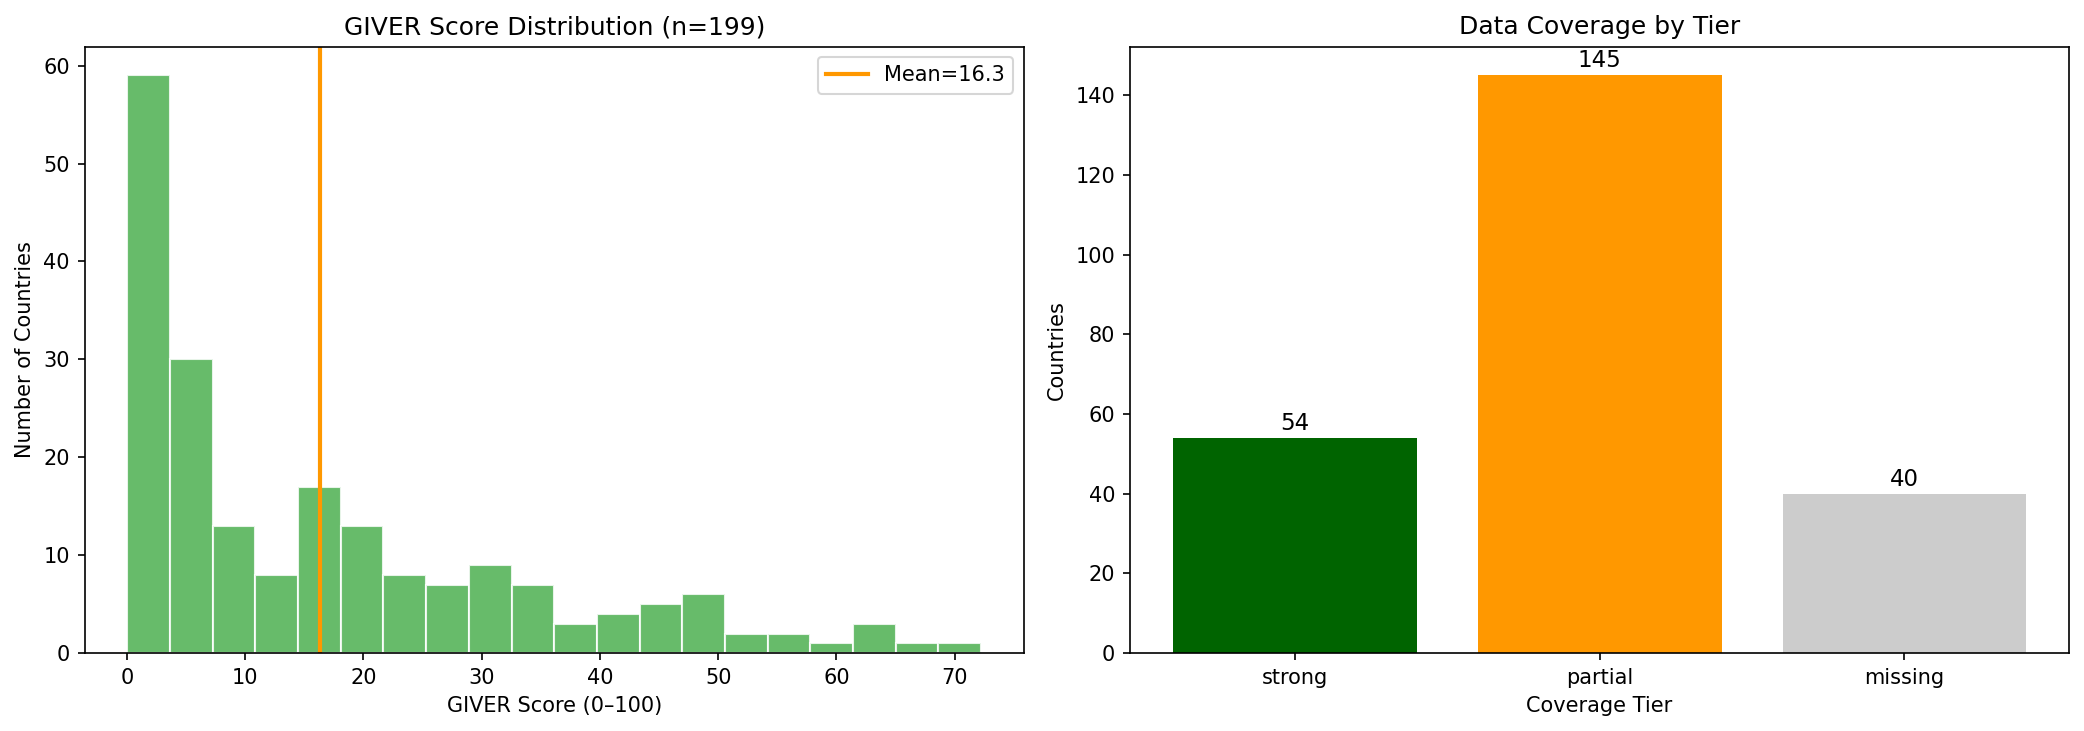
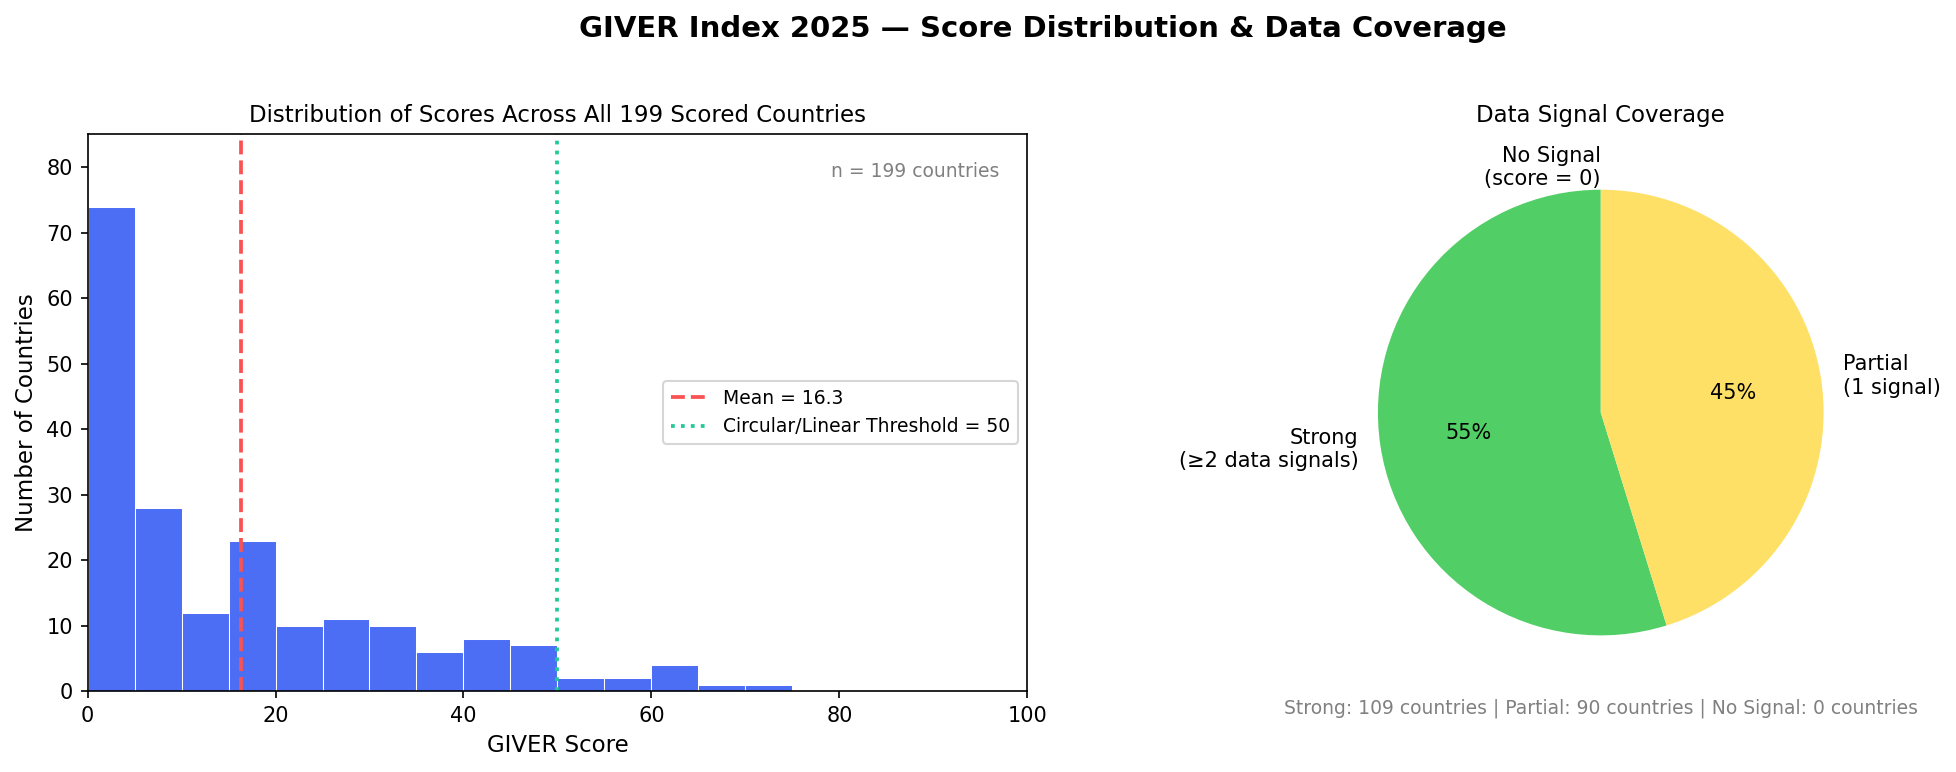
Regenerate all visualizations with clear labels and descriptions

diff --git a/docs/visualizations/generate.py b/docs/visualizations/generate.py
@@ -1,0 +1,335 @@
+#!/usr/bin/env python3
+"""Generate all GIVER Index visualizations for the GitHub Discussion."""
+from __future__ import annotations
+
+import sys
+from pathlib import Path
+
+sys.path.insert(0, str(Path(__file__).parent.parent / "src"))
+
+import matplotlib
+matplotlib.use("Agg")
+import matplotlib.pyplot as plt
+import matplotlib.patches as mpatches
+import numpy as np
+import pandas as pd
+from matplotlib.gridspec import GridSpec
+
+OUT_DIR = Path(__file__).parent
+
+
+def load_data() -> pd.DataFrame:
+    df = pd.read_csv(
+        "/home/workspace/code/github.com/EthanThatOneKid/giver-index/data/outputs/giver_index_2025.csv"
+    )
+    df.columns = [c.strip() for c in df.columns]
+    # Add source counts
+    df["signal_count"] = (
+        df[["ltv", "ivr", "gdp_ppp", "self_expression", "secular_rational"]]
+        .notna()
+        .sum(axis=1)
+    )
+    # Coverage tier
+    def tier(row):
+        if row.get("giver_score") and row["giver_score"] > 0:
+            return "Strong (≥2 signals)" if row["signal_count"] >= 2 else "Partial (1 signal)"
+        return "No Signal"
+    df["coverage_tier"] = df.apply(tier, axis=1)
+    return df
+
+
+def fmt_region(r: str) -> str:
+    """Human-readable region labels."""
+    return {
+        "Africa": "Africa",
+        "Americas": "Americas",
+        "Asia": "Asia",
+        "Europe": "Europe",
+        "Oceania": "Oceania",
+        "No Signal": "No Signal",
+    }.get(r, r)
+
+
+def plot_01_distribution(df: pd.DataFrame) -> None:
+    """Score distribution + coverage tier breakdown."""
+    scored = df[df["giver_score"] > 0]
+    tiers = scored["coverage_tier"].value_counts()
+
+    fig, axes = plt.subplots(1, 2, figsize=(14, 5))
+    fig.suptitle("GIVER Index 2025 — Score Distribution & Data Coverage", fontsize=14, fontweight="bold", y=1.02)
+
+    # --- Left: histogram ---
+    ax = axes[0]
+    bins = np.arange(0, 105, 5)
+    n, bins_out, patches = ax.hist(scored["giver_score"], bins=bins, color="#4C6EF5", edgecolor="white", linewidth=0.5)
+    ax.axvline(scored["giver_score"].mean(), color="#FA5252", linestyle="--", linewidth=1.8, label=f"Mean = {scored['giver_score'].mean():.1f}")
+    ax.axvline(50, color="#20C997", linestyle=":", linewidth=1.8, label="Circular/Linear Threshold = 50")
+    ax.set_xlabel("GIVER Score", fontsize=11)
+    ax.set_ylabel("Number of Countries", fontsize=11)
+    ax.set_title("Distribution of Scores Across All 199 Scored Countries", fontsize=11)
+    ax.legend(fontsize=9)
+    ax.set_xlim(0, 100)
+    ax.set_ylim(0, max(n) * 1.15)
+    ax.text(0.97, 0.95, f"n = {len(scored)} countries", transform=ax.transAxes,
+            ha="right", va="top", fontsize=9, color="gray")
+
+    # --- Right: coverage pie ---
+    ax2 = axes[1]
+    tier_labels = ["Strong\n(≥2 data signals)", "Partial\n(1 signal)", "No Signal\n(score = 0)"]
+    tier_colors = ["#51CF66", "#FFE066", "#C92A2A"]
+    tier_order = ["Strong (≥2 signals)", "Partial (1 signal)", "No Signal"]
+    vals = [tiers.get(t, 0) for t in tier_order]
+    wedges, texts, autotexts = ax2.pie(
+        vals,
+        labels=tier_labels,
+        colors=tier_colors,
+        autopct=lambda p: f"{p:.0f}%" if p > 0 else "",
+        startangle=90,
+        textprops={"fontsize": 10},
+    )
+    ax2.set_title("Data Signal Coverage", fontsize=11)
+    ax2.text(0, -1.35,
+             f"Strong: {tiers.get('Strong (≥2 signals)', 0)} countries | "
+             f"Partial: {tiers.get('Partial (1 signal)', 0)} countries | "
+             f"No Signal: {tiers.get('No Signal', 0)} countries",
+             ha="center", fontsize=9, color="gray")
+
+    plt.tight_layout()
+    out = OUT_DIR / "01_distribution.png"
+    fig.savefig(out, dpi=150, bbox_inches="tight", facecolor="white")
+    print(f"✓ {out.name}")
+    plt.close()
+    return out
+
+
+def plot_02_regional_comparison(df: pd.DataFrame) -> None:
+    """Mean score by region + box spread — all 6 regions shown explicitly."""
+    scored = df[df["giver_score"] > 0].copy()
+    # Map empty region → "No Signal"
+    scored["region"] = scored["region"].fillna("").replace("", "No Signal")
+
+    ALL_REGIONS = ["Europe", "Asia", "Americas", "Africa", "Oceania", "No Signal"]
+    REGION_COLORS = {
+        "Europe": "#4C6EF5",
+        "Asia": "#20C997",
+        "Americas": "#FFE066",
+        "Africa": "#FA5252",
+        "Oceania": "#9775FA",
+        "No Signal": "#868E96",
+    }
+    # Sort regions by mean (descending)
+    means = scored.groupby("region")["giver_score"].mean().reindex(ALL_REGIONS).sort_values(ascending=False)
+    order = means.index.tolist()
+
+    fig, axes = plt.subplots(1, 2, figsize=(14, 5))
+    fig.suptitle("GIVER Index 2025 — Regional Comparison", fontsize=14, fontweight="bold", y=1.02)
+
+    # Left: mean bar chart
+    ax = axes[0]
+    colors = [REGION_COLORS[r] for r in order]
+    bars = ax.bar([fmt_region(r) for r in order], means[order], color=colors, edgecolor="white", linewidth=0.7)
+    ax.axhline(50, color="#20C997", linestyle=":", linewidth=1.8, label="Circular threshold (50)")
+    ax.axhline(scored["giver_score"].mean(), color="gray", linestyle="--", linewidth=1.2, label=f"Global mean ({scored['giver_score'].mean():.1f})")
+    for bar, val in zip(bars, means[order]):
+        ax.text(bar.get_x() + bar.get_width() / 2, bar.get_height() + 0.5, f"{val:.1f}",
+                ha="center", va="bottom", fontsize=9, fontweight="bold")
+    ax.set_ylabel("Mean GIVER Score", fontsize=11)
+    ax.set_title("Mean Score by Region (all 6 regions shown)", fontsize=11)
+    ax.set_ylim(0, 80)
+    ax.legend(fontsize=9)
+    ax.tick_params(axis="x", labelsize=9)
+
+    # Right: box plot
+    ax2 = axes[1]
+    box_data = [scored[scored["region"] == r]["giver_score"].values for r in order]
+    bp = ax2.boxplot(box_data, patch_artist=True, tick_labels=[fmt_region(r) for r in order])
+    for patch, region in zip(bp["boxes"], order):
+        patch.set_facecolor(REGION_COLORS[region])
+        patch.set_alpha(0.7)
+    ax2.axhline(50, color="#20C997", linestyle=":", linewidth=1.8, label="Circular threshold (50)")
+    ax2.set_ylabel("GIVER Score", fontsize=11)
+    ax2.set_title("Score Distribution by Region (box plot)", fontsize=11)
+    ax2.tick_params(axis="x", labelsize=9)
+    ax2.legend(fontsize=9)
+
+    plt.tight_layout()
+    out = OUT_DIR / "02_regional.png"
+    fig.savefig(out, dpi=150, bbox_inches="tight", facecolor="white")
+    print(f"✓ {out.name}")
+    plt.close()
+    return out
+
+
+def plot_03_radar(df: pd.DataFrame) -> None:
+    """Radar chart for top 5 + bottom 5 countries across 5 dimensions."""
+    scored = df[df["giver_score"] > 0].sort_values("giver_score", ascending=False)
+    top5 = scored.head(5)
+    bottom5 = scored.tail(5)
+
+    DIMENSIONS = ["generative", "impact", "verifiable", "evidence_based", "rooted"]
+    DIM_LABELS = ["G\nGenerative", "I\nImpact", "V\nVerifiable", "E\nEvidence-based", "R\nRooted"]
+    N_DIMS = len(DIMENSIONS)
+
+    fig, axes = plt.subplots(1, 2, figsize=(14, 6), subplot_kw=dict(polar=True))
+    fig.suptitle("GIVER Index 2025 — Dimension Breakdown: Top 5 vs Bottom 5 Countries", fontsize=14, fontweight="bold", y=1.05)
+
+    angles = np.linspace(0, 2 * np.pi, N_DIMS, endpoint=False).tolist()
+    angles += angles[:1]  # close the polygon
+
+    PALETTE = ["#4C6EF5", "#20C997", "#9775FA", "#FA5252", "#FFE066"]
+    BOTTOM_PALETTE = ["#868E96", "#ADB5BD", "#CED4DA", "#DEE2E6", "#E9ECEF"]
+
+    def plot_radar(ax, countries, palette, title):
+        for i, (_, row) in enumerate(countries.iterrows()):
+            vals = [float(row.get(d, 0) or 0) for d in DIMENSIONS]
+            vals += vals[:1]
+            label = f"{row['iso3']} ({row['giver_score']:.0f})"
+            ax.plot(angles, vals, color=palette[i], linewidth=1.5, label=label)
+            ax.fill(angles, vals, color=palette[i], alpha=0.07)
+        ax.set_xticks(angles[:-1])
+        ax.set_xticklabels(DIM_LABELS, fontsize=10)
+        ax.set_ylim(0, 100)
+        ax.set_yticks([25, 50, 75, 100])
+        ax.set_yticklabels(["25", "50", "75", "100"], fontsize=7, color="gray")
+        ax.set_title(title, fontsize=11, fontweight="bold", pad=15)
+        ax.legend(loc="upper right", bbox_to_anchor=(1.3, 1.1), fontsize=8)
+
+    plot_radar(axes[0], top5, PALETTE, "Top 5 Most Circular Countries")
+    plot_radar(axes[1], bottom5, BOTTOM_PALETTE, "Bottom 5 Most Linear Countries")
+
+    plt.tight_layout()
+    out = OUT_DIR / "03_radar.png"
+    fig.savefig(out, dpi=150, bbox_inches="tight", facecolor="white")
+    print(f"✓ {out.name}")
+    plt.close()
+    return out
+
+
+def plot_04_signal_heatmap(df: pd.DataFrame) -> None:
+    """Heatmap: mean number of data signals per dimension per region."""
+    scored = df[df["giver_score"] > 0].copy()
+    scored["region"] = scored["region"].fillna("").replace("", "No Signal")
+
+    DIMENSIONS = ["generative", "impact", "verifiable", "evidence_based", "rooted"]
+    DIM_HUMAN = {
+        "generative": "G – Generative\n(Hofstede LTO)",
+        "impact": "I – Impact\n(GDP per capita)",
+        "verifiable": "V – Verifiable\n(GitHub + patents)",
+        "evidence_based": "E – Evidence-based\n(WVS secular/survival)",
+        "rooted": "R – Rooted\n(Hofstede IVR)",
+    }
+
+    SIGNAL_COLS = ["ltv", "gdp_ppp", "github_repos_per_million", "self_expression", "secular_rational", "ivr"]
+    DIM_SIGNAL_MAP = {
+        "generative": "ltv",
+        "impact": "gdp_ppp",
+        "verifiable": "github_repos_per_million",
+        "evidence_based": "self_expression",
+        "rooted": "ivr",
+    }
+
+    ALL_REGIONS = sorted(scored["region"].unique())
+    mat = np.zeros((len(DIMENSIONS), len(ALL_REGIONS)))
+    dim_labels_h = [DIM_HUMAN[d] for d in DIMENSIONS]
+
+    for j, region in enumerate(ALL_REGIONS):
+        for i, dim in enumerate(DIMENSIONS):
+            col = DIM_SIGNAL_MAP[dim]
+            if col in df.columns:
+                vals = scored[scored["region"] == region][col].dropna()
+                mat[i, j] = len(vals) / max(len(scored[scored["region"] == region]), 1)
+
+    fig, ax = plt.subplots(figsize=(12, 6))
+    im = ax.imshow(mat, cmap="YlGn", aspect="auto", vmin=0, vmax=1)
+
+    ax.set_xticks(range(len(ALL_REGIONS)))
+    ax.set_xticklabels([fmt_region(r) for r in ALL_REGIONS], fontsize=10, rotation=30, ha="right")
+    ax.set_yticks(range(len(DIMENSIONS)))
+    ax.set_yticklabels(dim_labels_h, fontsize=10)
+    ax.set_title("Data Signal Coverage Heatmap: Signals Available per Dimension by Region\n(Darker green = more countries have this signal | Max 100%)", fontsize=12, fontweight="bold", pad=12)
+
+    cbar = plt.colorbar(im, ax=ax, shrink=0.6)
+    cbar.set_label("% of countries in region with this signal", fontsize=9)
+    cbar.set_ticks([0, 0.25, 0.5, 0.75, 1.0])
+    cbar.set_ticklabels(["0%", "25%", "50%", "75%", "100%"])
+
+    # Annotate cells
+    for i in range(len(DIMENSIONS)):
+        for j in range(len(ALL_REGIONS)):
+            val = mat[i, j]
+            color = "white" if val > 0.6 else "black"
+            ax.text(j, i, f"{val:.0%}", ha="center", va="center", fontsize=9, color=color, fontweight="bold")
+
+    plt.tight_layout()
+    out = OUT_DIR / "04_heatmap.png"
+    fig.savefig(out, dpi=150, bbox_inches="tight", facecolor="white")
+    print(f"✓ {out.name}")
+    plt.close()
+    return out
+
+
+def plot_05_top_bottom(df: pd.DataFrame) -> None:
+    """Horizontal bar chart — top 20 vs bottom 20 countries."""
+    scored = df[df["giver_score"] > 0].sort_values("giver_score", ascending=False)
+
+    fig, axes = plt.subplots(1, 2, figsize=(15, 10))
+    fig.suptitle("GIVER Index 2025 — Top 20 vs Bottom 20 Countries", fontsize=14, fontweight="bold", y=0.92)
+
+    # Color by tier
+    def bar_color(score):
+        if score >= 60: return "#4C6EF5"   # deep blue — strong circular
+        if score >= 50: return "#20C997"   # teal — circular borderline
+        if score >= 35: return "#FFE066"   # yellow — moderate linear
+        if score >= 20: return "#FF922B"   # orange — linear
+        return "#FA5252"                    # red — extreme linear
+
+    def plot_side(ax, countries, title):
+        n = len(countries)
+        y_pos = np.arange(n)
+        scores = countries["giver_score"].values
+        colors = [bar_color(s) for s in scores]
+        bars = ax.barh(y_pos, scores, color=colors, edgecolor="white", linewidth=0.5, height=0.7)
+        ax.set_yticks(y_pos)
+        ax.set_yticklabels([f"{row['iso3']}  " for _, row in countries.iterrows()], fontsize=7)
+        ax.set_xlabel("GIVER Score", fontsize=11)
+        ax.set_xlim(0, 105)
+        ax.set_title(title, fontsize=11, fontweight="bold")
+        ax.axvline(50, color="#20C997", linestyle=":", linewidth=1.5, label="Threshold 50")
+        ax.invert_yaxis()
+        for bar, score in zip(bars, scores):
+            ax.text(bar.get_width() + 0.5, bar.get_y() + bar.get_height() / 2,
+                    f"{score:.1f}", va="center", fontsize=7, color="gray")
+        ax.legend(fontsize=8)
+
+    top20 = scored.head(20).iloc[::-1]  # flip so #1 is on top
+    bottom20 = scored.tail(20)
+
+    plot_side(axes[0], top20, "Top 20 Most Circular")
+    plot_side(axes[1], bottom20, "Bottom 20 Most Linear")
+
+    # Legend
+    legend_elements = [
+        mpatches.Patch(color="#4C6EF5", label="≥60 Strong Circular"),
+        mpatches.Patch(color="#20C997", label="50–59 Circular"),
+        mpatches.Patch(color="#FFE066", label="35–49 Moderate Linear"),
+        mpatches.Patch(color="#FF922B", label="20–34 Linear"),
+        mpatches.Patch(color="#FA5252", label="<20 Extreme Linear"),
+    ]
+    fig.legend(handles=legend_elements, loc="lower center", ncol=5, fontsize=9,
+               bbox_to_anchor=(0.5, 0.01), frameon=False)
+
+    plt.tight_layout()
+    plt.subplots_adjust(bottom=0.05, hspace=0.25)
+    out = OUT_DIR / "05_top_bottom.png"
+    fig.savefig(out, dpi=150, bbox_inches="tight", facecolor="white")
+    print(f"✓ {out.name}")
+    plt.close()
+    return out
+
+
+if __name__ == "__main__":
+    df = load_data()
+    outs = []
+    for plot_fn in [plot_01_distribution, plot_02_regional_comparison, plot_03_radar, plot_04_signal_heatmap, plot_05_top_bottom]:
+        outs.append(plot_fn(df))
+    print("\nAll done.")
